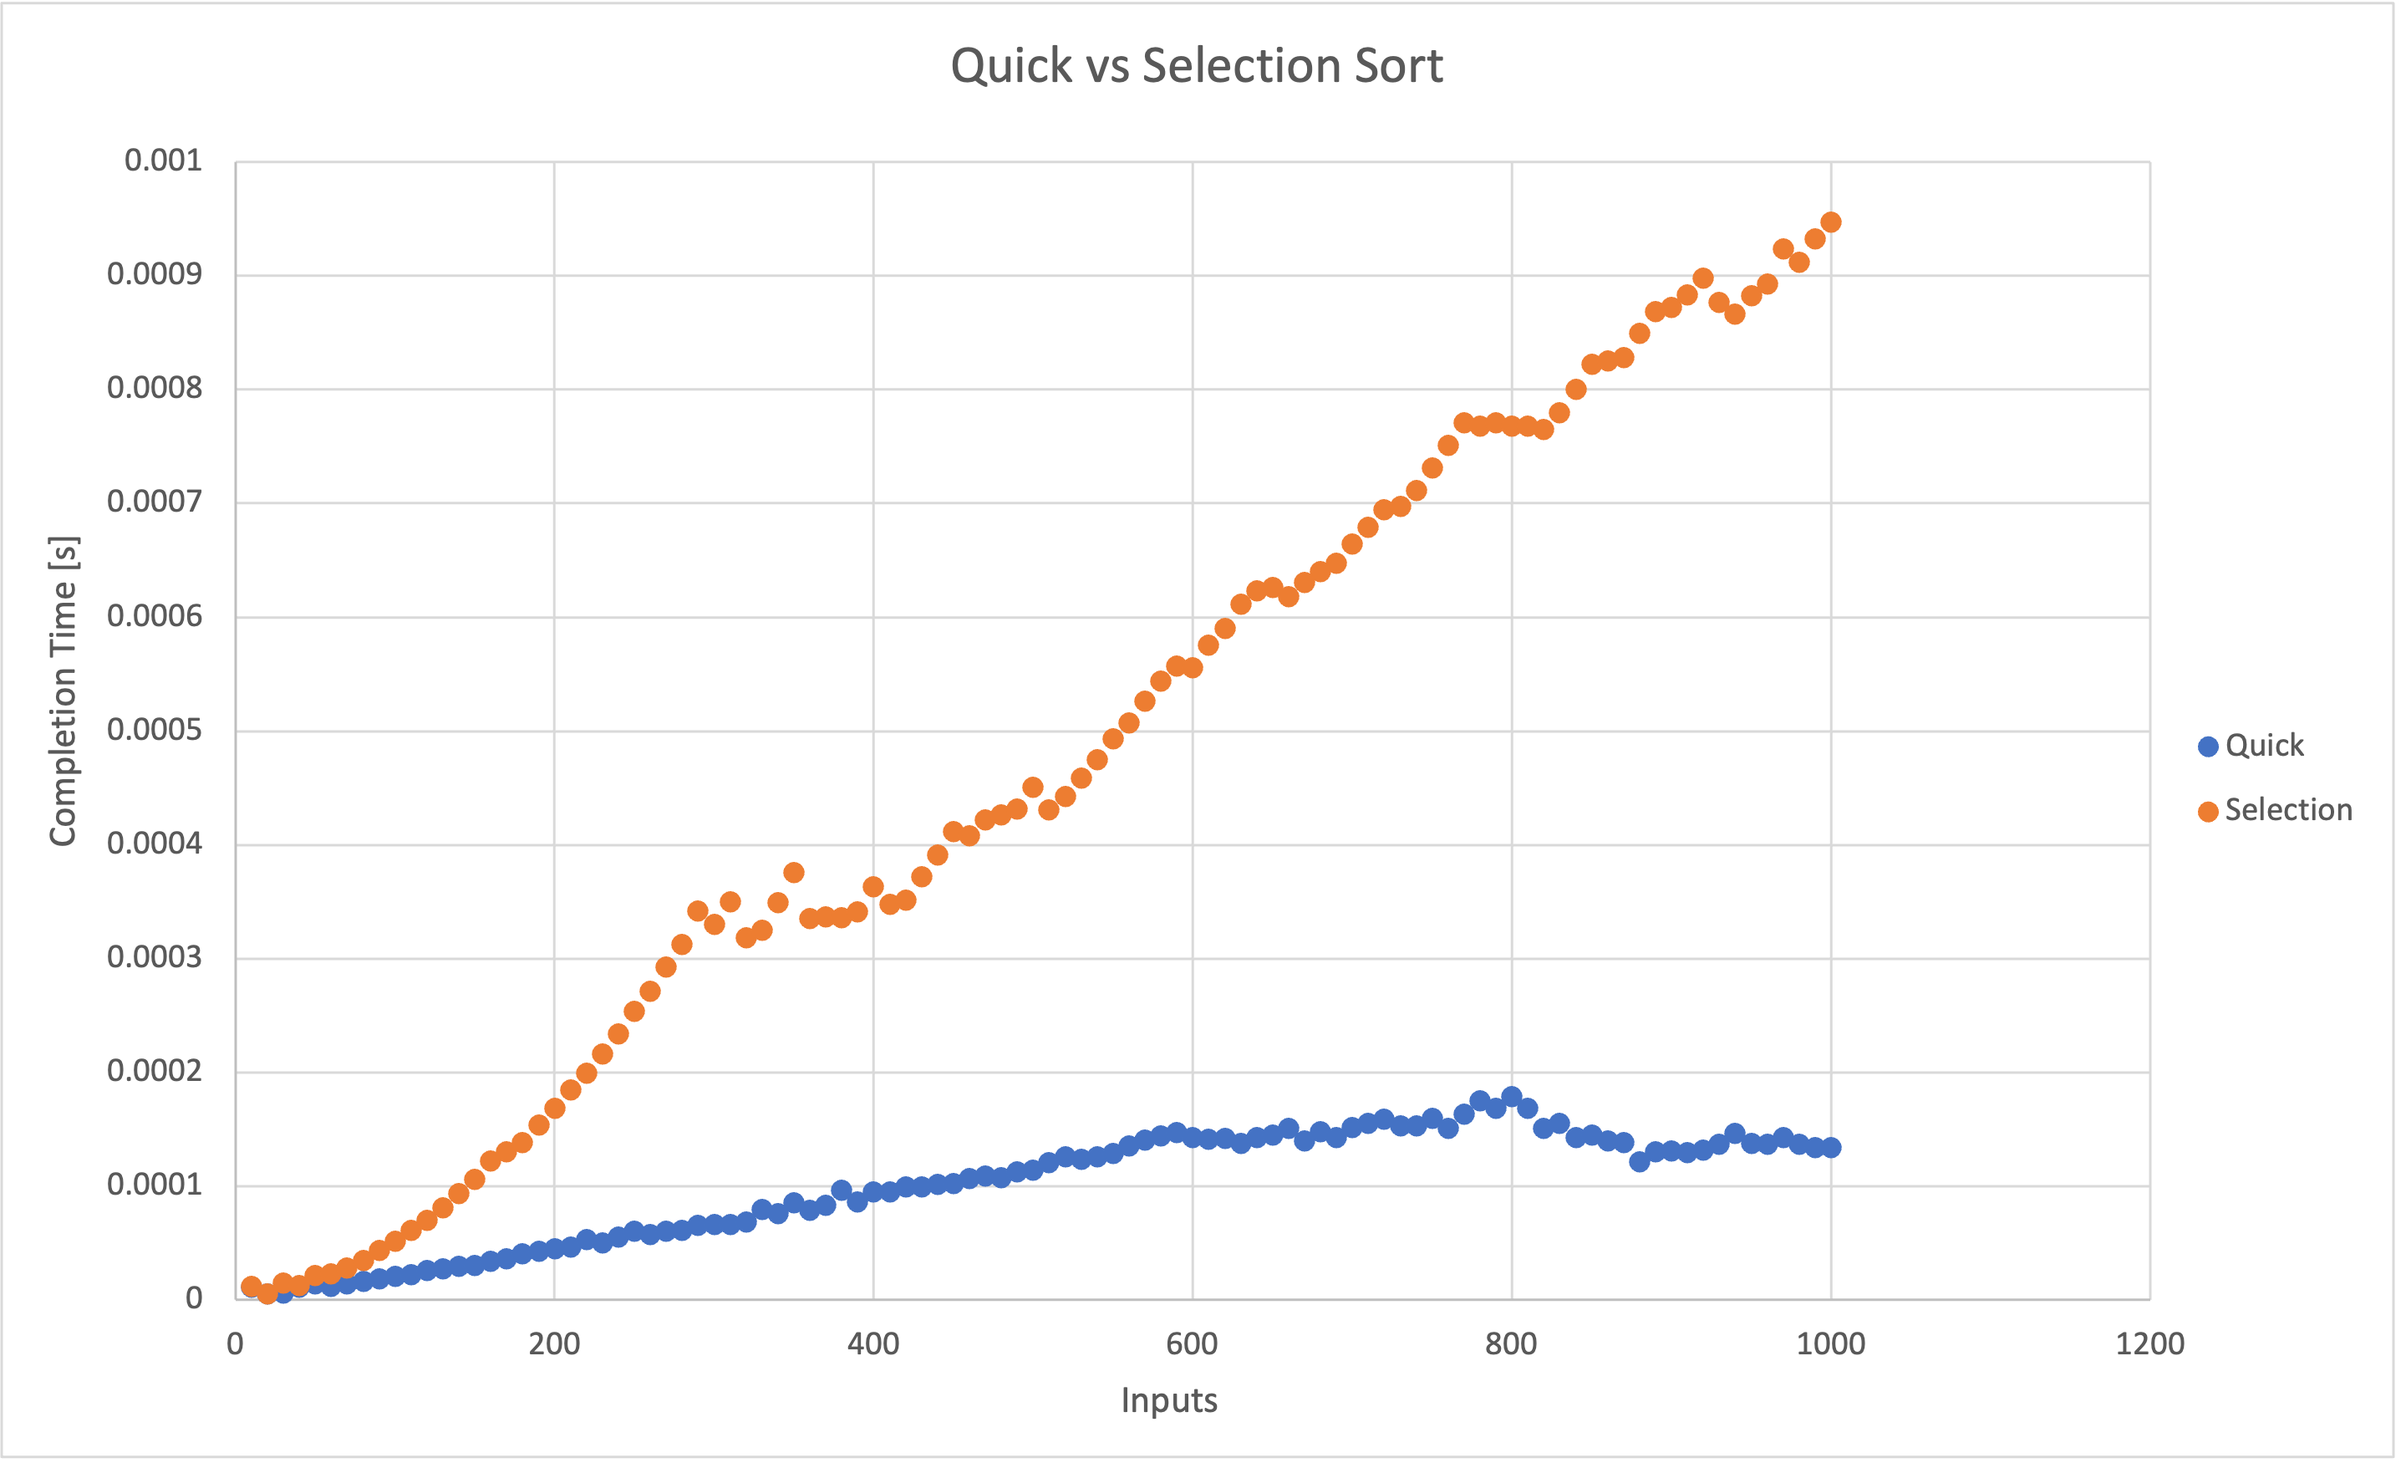
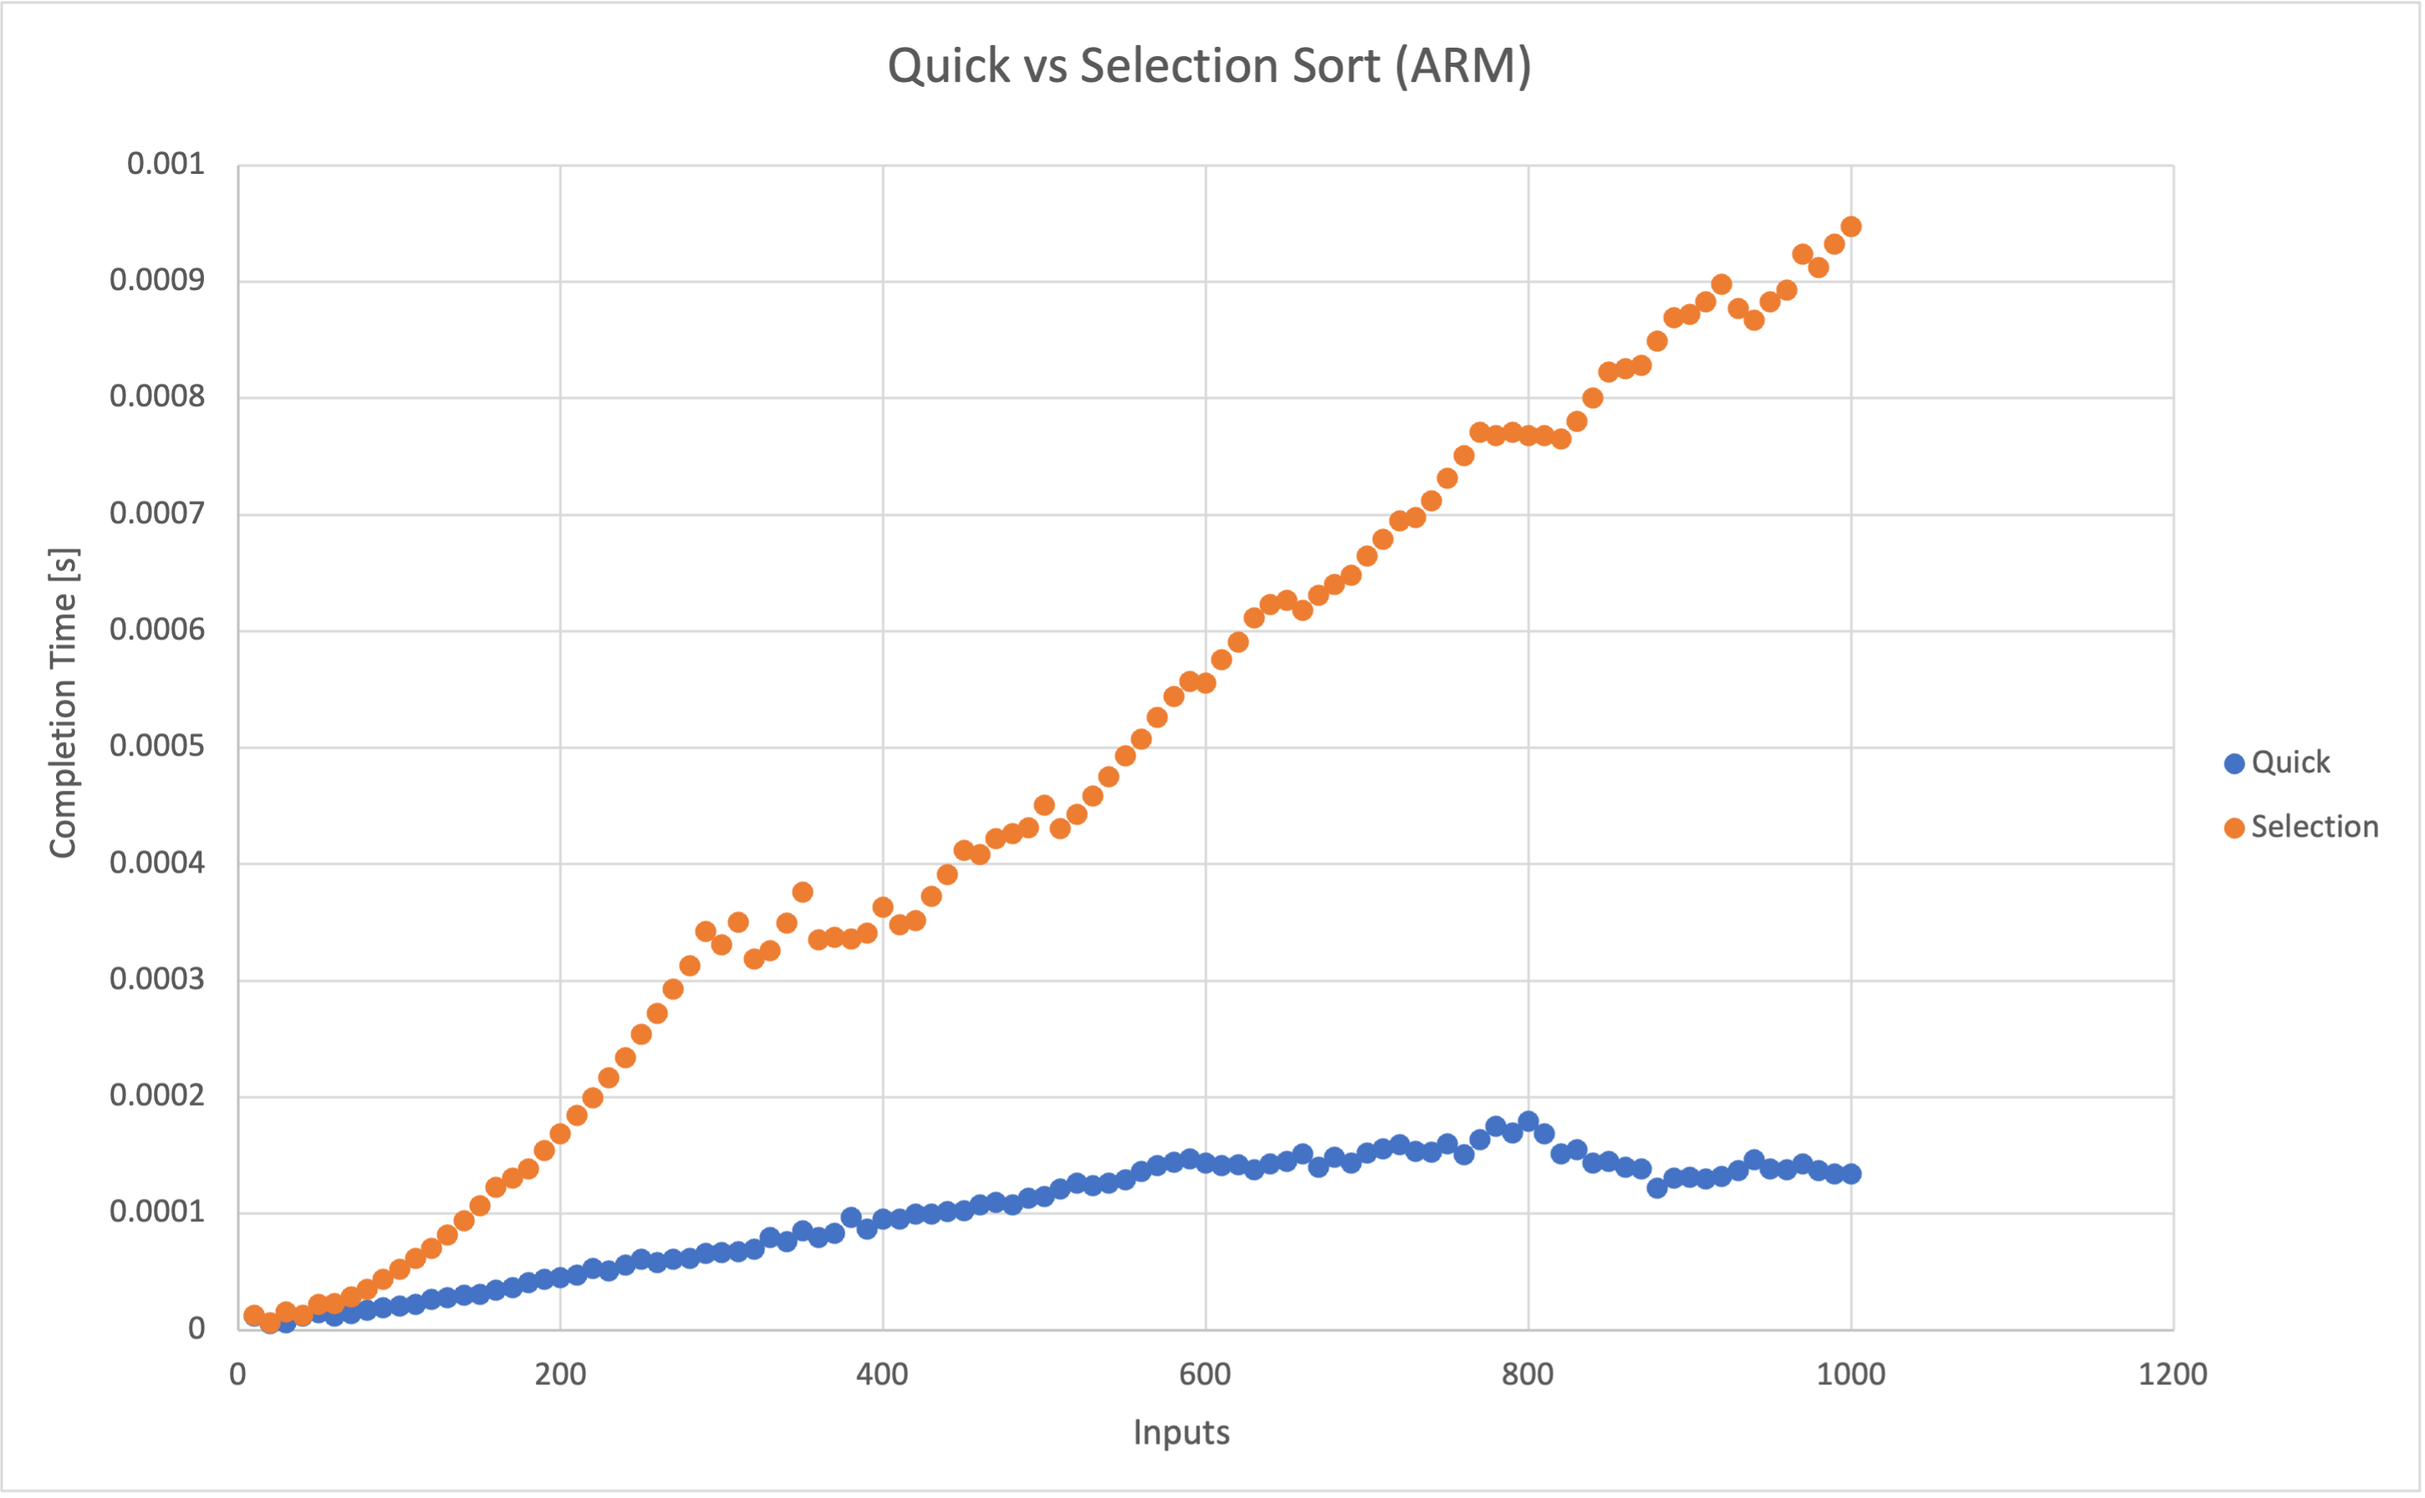
commit

diff --git a/README.md b/README.md
@@ -1,1 +1,3 @@
 # CS-4833-Extra-credit-homework-1
+
+Complied in clang and ran on an ARM Macbook Pro.
